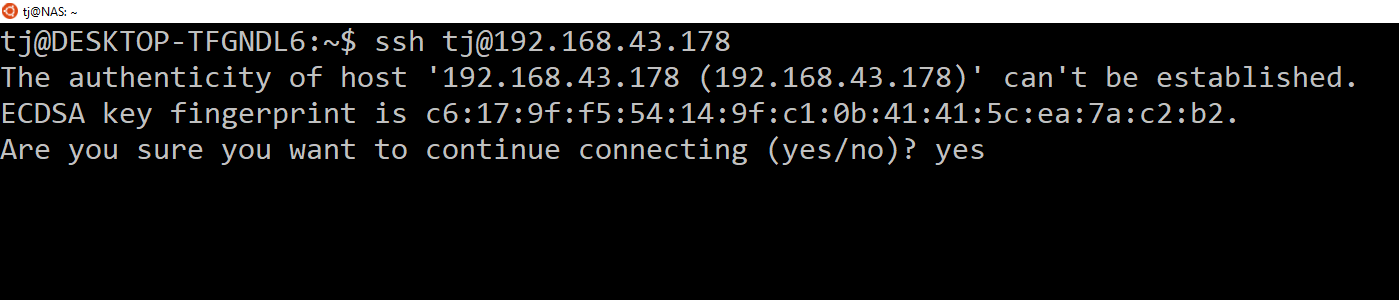
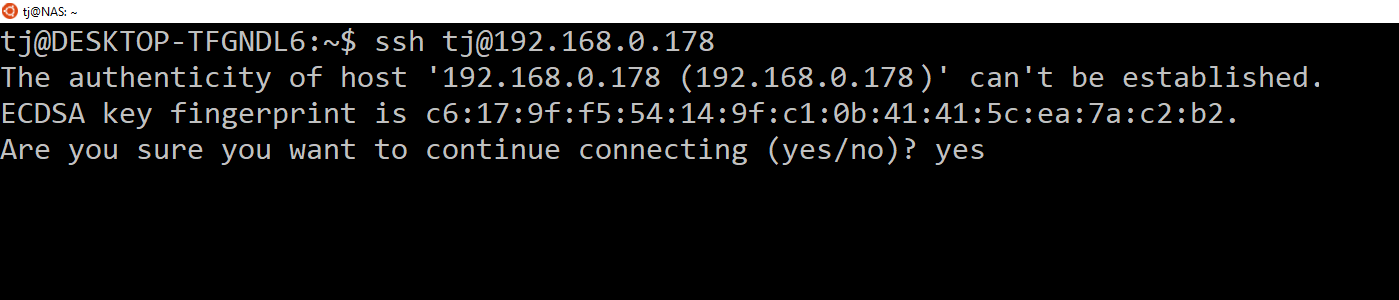
1

Changed region(s): [[0.3996, 0.21, 0.9836, 0.3], [0.4303, 0.09, 0.5225, 0.18]]

diff --git a/guides/ubuntu_NAS_installation.html b/guides/ubuntu_NAS_installation.html
@@ -648,7 +648,7 @@
 
 <pre class="black">
 tj@NAS:~$ hostname -I
-192.168.43.178 <span class="red">&larr; computerens IP-adresse</span>
+192.168.0.178 <span class="red">&larr; computerens IP-adresse</span>
 </pre>
 
 <p>Når du har IP-adressen kan du få adgang til din server ved hjælp af SSH, som er et program der giver krypteret kommandolinie adgang til din NAS. En af fordelene herved er, at du kan kopiere kommandoer herfra hjemmesiden og køre kommandoerne uden at skulle indtaste dem.</p>
@@ -666,7 +666,7 @@ tj@NAS:~$ hostname -I
 
 <p>I mit tilfælde vil det være:</p>
 
-<code class="cmd">ssh tj@192.168.43.179</code>
+<code class="cmd">ssh tj@192.168.0.179</code>
 
 <p>Første gang vil vil du blive spurgt om du vil tilføje computerens informationer og det skal du gøre.</p>
 
@@ -705,8 +705,8 @@ tj@NAS:~$ hostname -I
 <p>I mit tilfælde vil jeg gerne frigive adresserne fra 2-49 og derved bliver det:</p>
 
 <ul class="none">
-	<li>start IP-adresse: 192.168.43.50</li>
-	<li>slut IP-adresse: 192.168.43.254 (<span class="red">må ikke være mere end 254</span>)</li>
+	<li>start IP-adresse: 192.168.0.50</li>
+	<li>slut IP-adresse: 192.168.0.254 (<span class="red">må ikke være mere end 254</span>)</li>
 </ul>
 
 <p>Nu kan jeg bruge de frigivne adresser (2-49) til faste IP-adresser</p>
@@ -735,7 +735,7 @@ tj@NAS:~$ ip -4 addr show
        valid_lft forever preferred_lft forever
 2: <span class="red">enp0s3</span>: &lt;BROADCAST,MULTICAST,UP,LOWER_UP> mtu 1500 qdisc pfifo_fast state UP group default qlen 1000
     link/ether 08:00:27:45:fd:aa brd ff:ff:ff:ff:ff:ff
-    inet <span class="red">192.168.43.178/24 brd 192.168.43.255</span> scope global enp0s3
+    inet <span class="red">192.168.0.178/24 brd 192.168.0.255</span> scope global enp0s3
        valid_lft forever preferred_lft forever
 </pre>
 
@@ -743,9 +743,9 @@ tj@NAS:~$ ip -4 addr show
 
 <ul class="none">
 	<li>Netkortet hedder: enp0s3</li>
-	<li>Serveren har adressen: 192.168.43.178</li>
+	<li>Serveren har adressen: 192.168.0.178</li>
 	<li>Netmasken er: /24 (255.255.255.0)</li>
-	<li>Broadcast adressen er: 192.168.43.178</li>
+	<li>Broadcast adressen er: 192.168.0.178</li>
 </ul>
 
 
@@ -788,11 +788,11 @@ iface lo inet loopback
 auto enp0s3
 iface enp0s3 inet static <span class="red">&larr; Ændr herfra</span>
   
-  network 192.168.43.0
-  address 192.168.43.10
-  gateway 192.168.43.1
+  network 192.168.0.0
+  address 192.168.0.10
+  gateway 192.168.0.1
   netmask 255.255.255.0
-  broadcast 192.168.43.255
+  broadcast 192.168.0.255
   
   dns-nameservers 8.8.8.8 8.8.4.4
 </pre>
